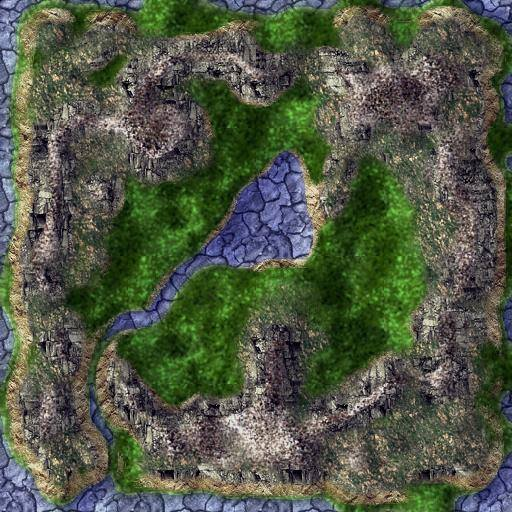
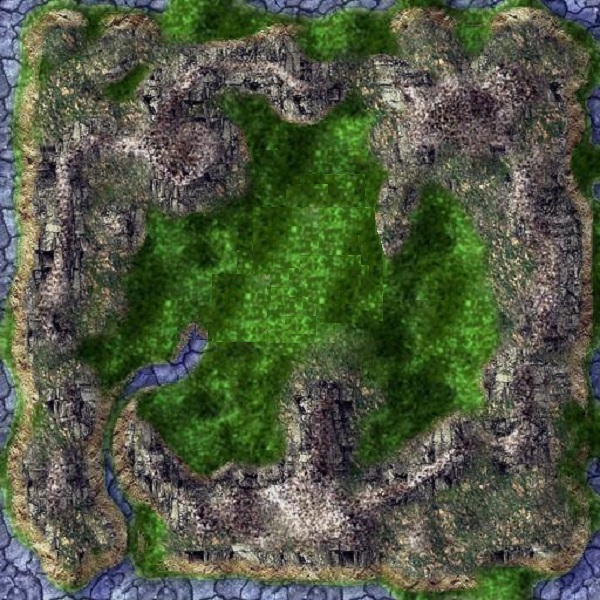
terrain in position

diff --git a/ProjetoB/projB/MyTerrain.js b/ProjetoB/projB/MyTerrain.js
@@ -9,26 +9,26 @@ class MyTerrain  extends CGFobject{
     initBuffers() {
         this.plane = new Plane(this.scene,32);
 
-        this.texture = new CGFtexture(this.scene, "images/terrain.jpg");
-        this.textureMap = new CGFtexture(this.scene, "images/heightmap.jpg");
+        this.texTerrain = new CGFtexture(this.scene, "images/terrain.jpg");
+        this.texTerrainMap = new CGFtexture(this.scene, "images/heightmap.jpg");
 
         this.testShaders = new CGFshader(this.scene.gl, "shaders/terrain.vert", "shaders/terrain.frag");
 
-        this.testShaders.setUniformsValues({ texture: 0 });
-        this.testShaders.setUniformsValues({ textureMap: 1 });
+        this.testShaders.setUniformsValues({ texTerrain: 0 });
+        this.testShaders.setUniformsValues({ texTerrainMap: 1 });
 
     }
     display() {
-        this.texture.bind(0);
-        this.textureMap.bind(1);
+        this.texTerrain.bind(0);
+        this.texTerrainMap.bind(1);
 
         this.scene.setActiveShader(this.testShaders);
-        this.scene.translate(0, -8, 0);
 
         this.scene.pushMatrix();
-
+        this.scene.rotate(0.5*Math.PI, 0, 1, 0);
+        this.scene.translate(0, -6.5, 0);
         this.scene.rotate(-0.5*Math.PI, 1, 0, 0);
-        this.scene.scale(250, 250, 25);
+        this.scene.scale(60, 60, 20);
         this.plane.display();
 
         this.scene.popMatrix();

diff --git a/ProjetoB/projB/MyScene.js b/ProjetoB/projB/MyScene.js
@@ -24,11 +24,10 @@ class MyScene extends CGFscene {
         this.enableTextures(true);
         this.setUpdatePeriod(1000/fps);
 
-        
-
+    
         //Initialize scene objects
         this.axis = new CGFaxis(this);
-        this.selectedObject = 1;
+        this.selectedObject = 2;
         this.skybox = new MyCubeMap(this);
 
 
@@ -56,7 +55,7 @@ class MyScene extends CGFscene {
         this.lights[0].update();
     }
     initCameras() {
-        this.camera = new CGFcamera(0.5, 0.1, 500, vec3.fromValues(30, 100, 60), vec3.fromValues(0, 0, 0));
+        this.camera = new CGFcamera(0.5, 0.1, 500, vec3.fromValues(2, 50, 2), vec3.fromValues(0, 0, 0));
     }
     setDefaultAppearance() {
         this.setAmbient(0.2, 0.4, 0.8, 1.0);

diff --git a/ProjetoB/projB/MyFinalScene.js b/ProjetoB/projB/MyFinalScene.js
@@ -9,11 +9,10 @@ class MyFinalScene extends CGFobject{
         this.house = new MyHouse(this.scene);
         this.skybox = new MyCubeMap(this.scene);
         this.terrain = new MyTerrain(this.scene);
+        this.bird = new MyBird(this.scene);
     }
 
     display() {
-        
-    
 
         //HOUSE 
         this.scene.pushMatrix();
@@ -29,6 +28,11 @@ class MyFinalScene extends CGFobject{
         this.scene.pushMatrix();
         this.terrain.display();
         this.scene.popMatrix();
+
+        //BIRD
+        this.scene.pushMatrix();
+        this.scene.popMatrix();
+
 
     }
 }
